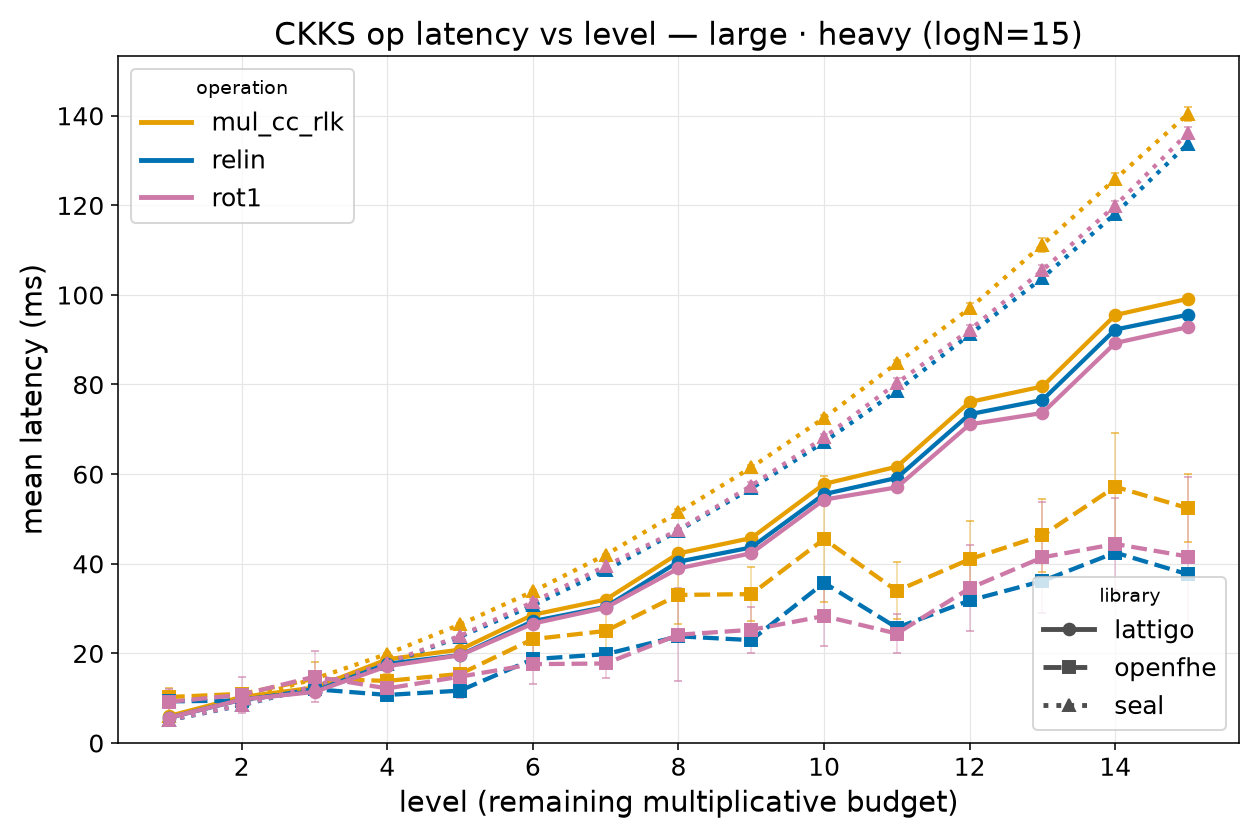
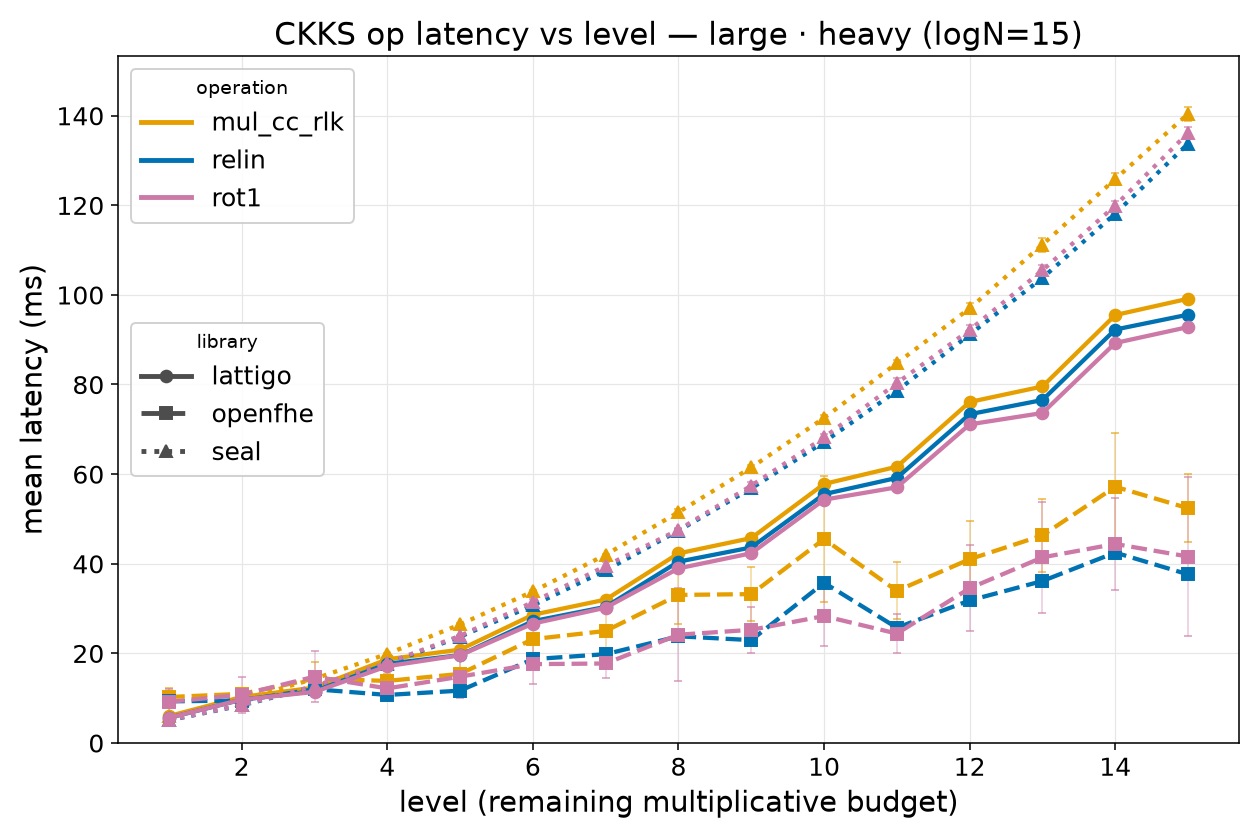
plots: 3자 막대 레이아웃 + 범례 위치 수정 (레이아웃만, 수치 무변경)
막대: 예전 offset=(i-0.5)*width 는 2자 전용이라 3자에서 그룹이 눈금 중심에서
벗어나고(-0.19/+0.19/+0.57) 간격==폭이라 막대가 맞닿아 한 덩어리로 보였다.
  - 중심 간격 0.26 / 막대 폭 0.21 (따로 지정) + 그룹을 눈금 중심에 정렬
  - 값 라벨 폰트 12 -> 8.5, 에러바 캡 위에 배치
  - ylim 상단 max(막대+에러바)*1.18, 흰색 edge 0.6pt
  - 에러바 elinewidth 1.0 / capsize 2.5

레벨 스케일링(선 그래프): 막대 항목 해당 없음. 다만 3자가 되며 커진 library 범례가
lower right에서 낮게 깔리는 op의 끝점을 가렸다(large·mid의 mul_cp 끝점).
곡선이 모두 단조 증가라 항상 비어 있는 왼쪽으로 옮겼다(center left).

수치·축 라벨·티어 그룹핑·색상 매핑(Okabe-Ito) 모두 그대로. CSV 무변경.

Claude-Session: https://claude.ai/code/session_01QAUSb1GNgxJ2ga7wyt3GKn

diff --git a/aggregate.py b/aggregate.py
@@ -242,9 +242,14 @@ def plot_level_scaling(df):
                 *[Line2D([0], [0], color="0.3", lw=2.5, linestyle=LIB_LS[l],
                          marker=LIB_MARKER[l], label=l) for l in LIB_ORDER],
             ]
-            leg1 = ax.legend(handles=op_handles, title="operation", loc="upper left")
+            # 두 범례 모두 왼쪽에 세로로 배치한다. 곡선이 모두 단조 증가라 왼쪽 위/가운데가
+            # 항상 비어 있는 반면, lower right는 낮게 깔리는 op(예: mul_cp)의 끝점을 가린다
+            # (3자가 되며 범례가 커져 실제로 large·mid에서 가려졌다).
+            leg1 = ax.legend(handles=op_handles, title="operation", loc="upper left",
+                             framealpha=0.9)
             ax.add_artist(leg1)
-            ax.legend(handles=lib_handles, title="library", loc="lower right")
+            ax.legend(handles=lib_handles, title="library", loc="center left",
+                      framealpha=0.9)
             fig.tight_layout()
             out = out_path(f"plot_{preset}_{tier}{SUFFIX}.png")
             fig.savefig(out, dpi=140)
@@ -267,7 +272,12 @@ def plot_summary_bars(df):
             top = sub[sub["level"] == maxL]
             present = [o for o in ops if not top[top["op"] == o].empty]
             x = range(len(present))
-            width = 0.38
+            # 3자 레이아웃: 막대 중심 간격과 막대 폭을 따로 잡는다.
+            # 예전 공식 offset=(i-0.5)*width 는 2자 전용이라 3자에서 그룹이 눈금 중심에서
+            # 벗어나고(오프셋 -0.19/+0.19/+0.57) 간격==폭이라 막대가 맞닿아 한 덩어리로 보였다.
+            SPACING = 0.26      # 막대 중심 간 간격
+            width = 0.21        # 막대 폭 (SPACING과 달라야 사이가 벌어진다)
+            n_lib = len(LIB_ORDER)
             ymax = 0.0
             for i, lib in enumerate(LIB_ORDER):
                 # mean_us/std_us를 ms(÷1000)로 표시. 원본 데이터는 μs 유지.
@@ -275,21 +285,22 @@ def plot_summary_bars(df):
                         for op in present]
                 errs = [top[(top["op"] == op) & (top["library"] == lib)]["std_us"].mean() / 1000.0
                         for op in present]
-                offset = (i - 0.5) * width
+                offset = (i - (n_lib - 1) / 2.0) * SPACING   # 그룹을 눈금 중심에 정렬
                 # 선형축 → 대칭 에러바(yerr=std). relin은 std=0이라 에러바 없음(정상).
+                # 흰색 edge: 막대끼리 붙어 보이는 것을 끊어준다.
                 ax.bar([xi + offset for xi in x], vals, width,
-                       yerr=errs, capsize=3,
-                       error_kw={"elinewidth": 0.8, "alpha": 0.6},
-                       color=LIB_COLOR[lib], label=lib, edgecolor="black", linewidth=0.8)
-                # 막대 위 값 표기.
+                       yerr=errs, capsize=2.5,
+                       error_kw={"elinewidth": 1.0, "alpha": 0.6},
+                       color=LIB_COLOR[lib], label=lib, edgecolor="white", linewidth=0.6)
+                # 값 라벨은 막대 상단이 아니라 **에러바 캡 위**에 둔다(캡과 겹치지 않게).
                 for xi, v, e in zip(x, vals, errs):
                     if np.isnan(v):
                         continue
                     ax.annotate(f"{v:.{dec}f}", (xi + offset, v + e),
-                                textcoords="offset points", xytext=(0, 3),
-                                ha="center", va="bottom", fontsize=12)
+                                textcoords="offset points", xytext=(0, 3.5),
+                                ha="center", va="bottom", fontsize=8.5)
                     ymax = max(ymax, v + e)
-            ax.set_ylim(0, ymax * 1.20)  # 값 라벨 공간 확보
+            ax.set_ylim(0, ymax * 1.18)  # 값 라벨 공간 확보
             ax.set_title(f"{preset} (logN={sub['logN'].iloc[0]}, level={maxL})")
             ax.set_xticks(list(x))
             ax.set_xticklabels(present, fontsize=13)
